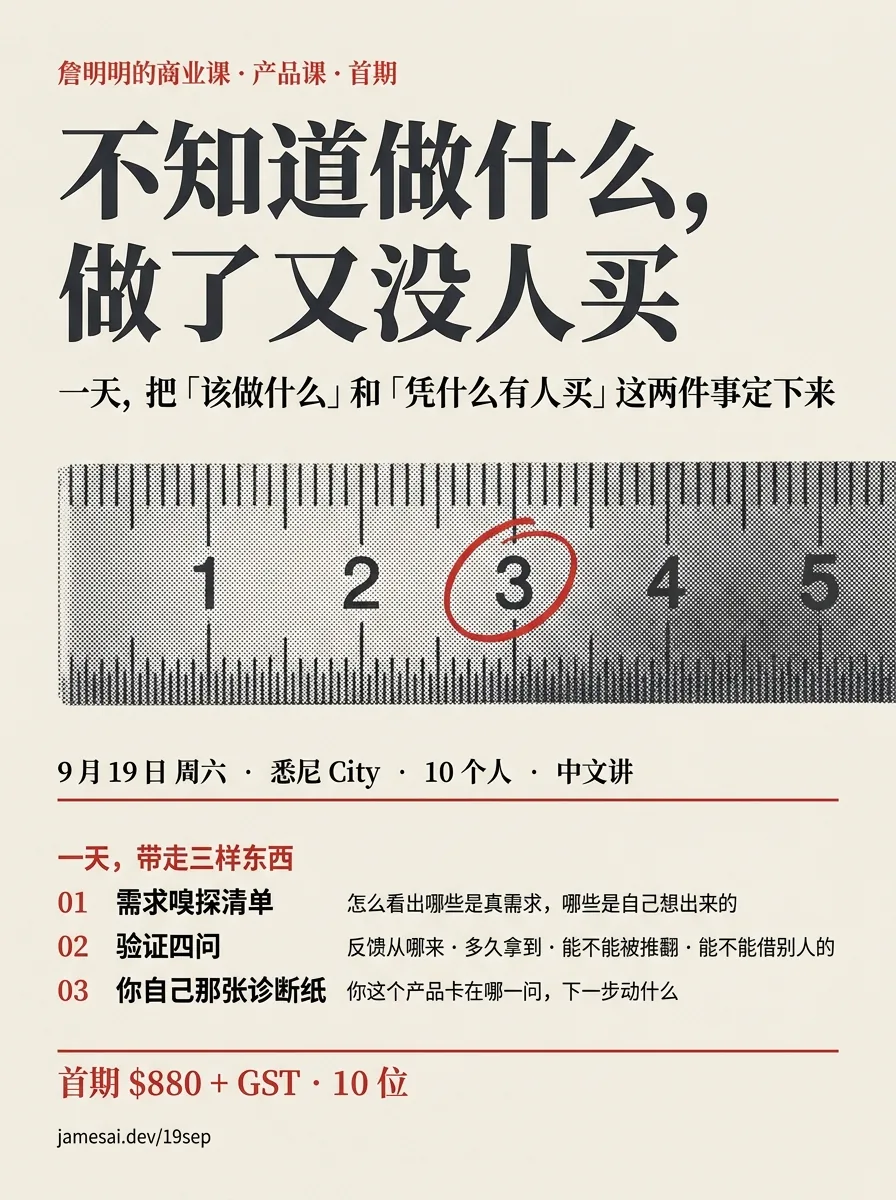
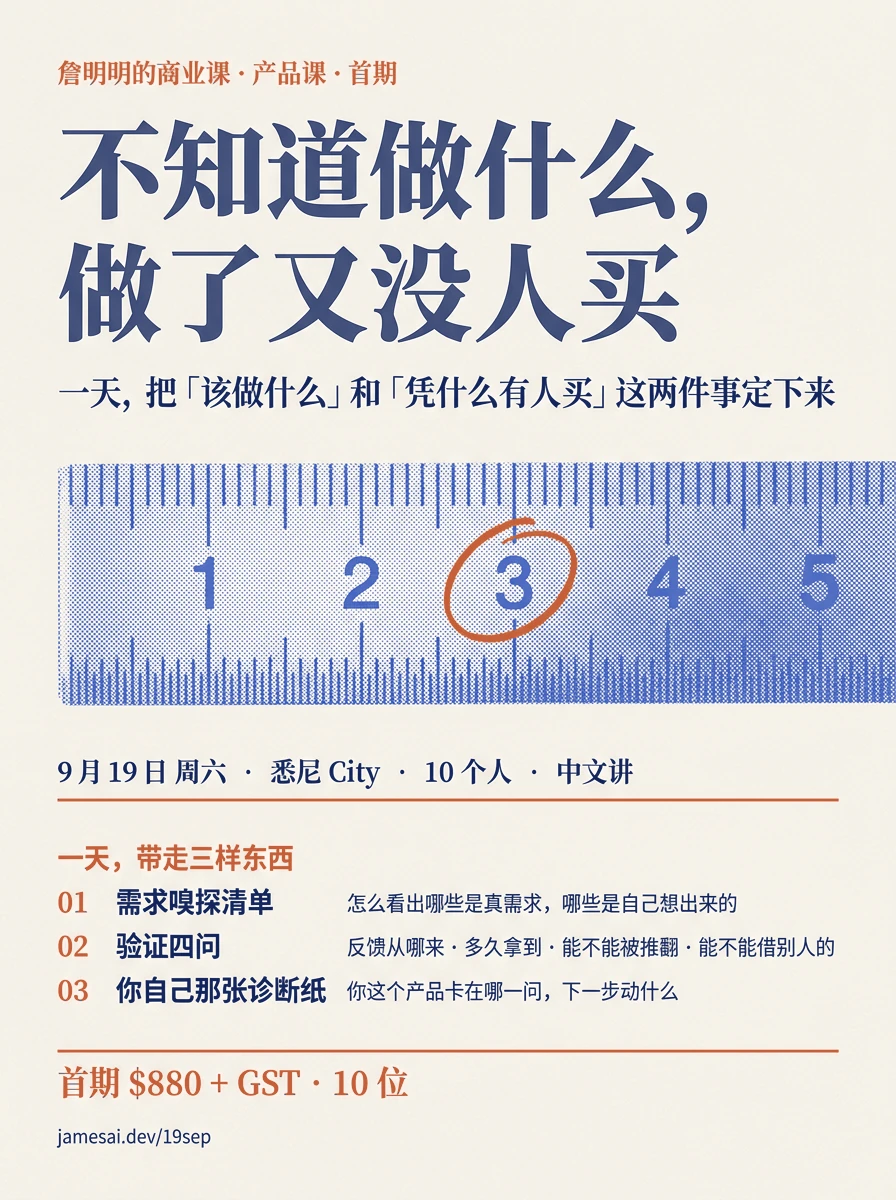
Re-ink the 19 Sep poster so the sheet and the page are one press
The page moved to the site's two inks last commit; the poster on it did not,
so the largest object on the page was still printed in the old homepage's
charcoal and seal red. It is now cobalt and terracotta on the same substrate,
and the page reads as one printed thing instead of a restyled page with
somebody else's poster pasted into it.

RE-INKED, NOT RE-GENERATED. The poster is a model render and it took ten
versions to get one worth using — the tenth is the first that says what the
class teaches. Its own recipe warns that any re-render has to be proof-read
character by character, because an earlier version printed the word
"microtype:" out of the prompt and into the artwork. Asking the model again to
change two hex values would pay that entire risk for an ink change. So every
pixel is solved for how much ink is on the paper and which of the two inks it
is, and the same coverage is laid down with the new ones. Nothing moves. Not
one Chinese character is re-rendered. tools/poster-reink.py.

TWO COBALTS, BECAUSE THE SITE USES TWO. Re-inking the whole sheet to #2148B8
was tried first and the small explanatory lines came out visibly lighter than
the near-black they replaced — a real cost on a poster whose job is to survive
as a thumbnail in a WeChat feed. The site does not set text in #2148B8 either:
that is the plate, and running text is #12255E. So the steel rule takes the
plate ink and every character takes the text ink. Where the rule sits was
[…]

diff --git a/19sep/index.html b/19sep/index.html
@@ -36,8 +36,21 @@
   window.__pressApply = function (choice) {
     var night = choice === 'night' || (choice === 'system' && m && m.matches);
     r.setAttribute('data-press', night ? 'night' : 'day');
+    /* Swapping the src rather than shipping both means only the stock in use
+       is ever fetched. The element does not exist yet on the first call — this
+       script runs in <head>, before the body — and that is fine: the markup
+       ships with the day sheet, and the first call after DOMContentLoaded
+       below corrects it. */
+    var plate = document.getElementById('poster');
+    if (plate) {
+      var want = plate.getAttribute(night ? 'data-night' : 'data-day');
+      if (plate.getAttribute('src') !== want) plate.setAttribute('src', want);
+    }
   };
   __pressApply(__pressSaved());
+  document.addEventListener('DOMContentLoaded', function () {
+    __pressApply(__pressSaved());
+  });
   if (m && m.addEventListener) {
     m.addEventListener('change', function () {
       if (__pressSaved() === 'system') __pressApply('system');
@@ -400,7 +413,11 @@ p:last-child { margin-bottom: 0; }
   display: block;
   width: 10.5rem;
   height: auto;
-  background: #fff;
+  /* The quiet zone stays light in BOTH stocks — a QR wants a pale ground
+     to scan, so this is the one plate that does not invert. Pure #fff
+     was a fourth colour on a page with two inks and a substrate; the
+     substrate itself is well inside what a scanner will read. */
+  background: #F5F1E8;
   padding: 0.6rem;
   border: 1px solid var(--rule-strong);
 }
@@ -441,11 +458,15 @@ footer a:hover { color: var(--accent-text); border-color: currentColor; }
     <span>10 席 · 中文讲</span>
   </div>
 
-  <a class="poster-link" href="poster.png"><picture>
-    <source srcset="poster.webp" type="image/webp">
-    <img class="poster" src="poster.png" width="896" height="1200" fetchpriority="high" decoding="async"
-       alt="詹明明的商业课 · 产品课 · 首期。不知道做什么，做了又没人买。一天，把「该做什么」和「凭什么有人买」这两件事定下来。9 月 19 日周六，悉尼 City，10 个人，中文讲。一天带走三样东西：需求嗅探清单、验证四问、你自己那张诊断纸。首期 $880 + GST，10 位。">
-  </picture></a>
+  <!-- Two stocks, one drawing. The night sheet is the SAME artwork re-inked
+       for dark paper (tools/poster-reink.py), not a second design — a bright
+       beige rectangle on a near-black page is the one thing that would still
+       look bolted on after the restyle. The download and the og:image stay the
+       day sheet: that is the one people share. -->
+  <a class="poster-link" href="poster.png?v=2"><img class="poster" id="poster"
+       src="poster.webp?v=2" data-day="poster.webp?v=2" data-night="poster-night.webp?v=2"
+       width="896" height="1200" fetchpriority="high" decoding="async"
+       alt="詹明明的商业课 · 产品课 · 首期。不知道做什么，做了又没人买。一天，把「该做什么」和「凭什么有人买」这两件事定下来。9 月 19 日周六，悉尼 City，10 个人，中文讲。一天带走三样东西：需求嗅探清单、验证四问、你自己那张诊断纸。首期 $880 + GST，10 位。"></a>
 
   <section>
     <h2>这是哪一门</h2>

diff --git a/tools/poster-reink.py b/tools/poster-reink.py
@@ -1,0 +1,133 @@
+#!/usr/bin/env python3
+"""Re-ink the 19 Sep poster into the site's two inks.
+
+    python3 tools/poster-reink.py <poster.png> [--night] [-o out.png]
+
+WHY RE-INK AND NOT RE-GENERATE
+The poster is a `gemini-3-pro-image-preview` render and it took ten versions to
+get one James approved — the tenth is the first that says what the class
+teaches. Its own recipe warns that a re-render has to be proof-read character
+by character, because an earlier version printed the word "microtype:" from the
+prompt into the artwork. Asking the model again to change two hex values is
+paying that whole risk for an ink change.
+
+So the sheet is re-inked instead. Every pixel is solved for how much ink is on
+the paper and which of the two inks it is, then the same coverage is laid down
+with the new inks. The layout does not move, the halftone does not move, and
+not one Chinese character is re-rendered.
+
+  paper    #F0ECE0 -> #F5F1E8   (the site's substrate)
+  charcoal #010000 -> #12255E in type, #2148B8 in the image band
+  red      #A03F36 -> #C65F38   (signal only)
+
+TWO COBALTS, BECAUSE THE SITE USES TWO
+The site does not set text in #2148B8. #2148B8 is the plate — the ink the
+halftone imagery is printed in — and running text is #12255E, a denser mix of
+the same ink. Re-inking the whole sheet to #2148B8 was tried first and the
+small explanatory lines came out visibly weaker than the near-black they
+replaced, which is a real cost on a poster whose job is to be read as a
+thumbnail in a WeChat feed. So the steel rule gets the plate ink and every
+character gets the text ink.
+
+WHERE THE IMAGE BAND IS, MEASURED
+Row ink-coverage was profiled across the sheet. The rule occupies rows
+463-703; the subtitle above it ends at 405 and the fact line below starts at
+760, so rows 450-715 contain the rule and nothing else. The band is stated in
+FRACTIONS of the sheet height, not pixels, so a re-render at another size
+still lands on it — but it is a measurement of THIS artwork and has to be
+re-profiled if the poster is ever regenerated.
+
+WHICH INK A PIXEL IS, IS DECIDED BY RESIDUAL, NOT BY HUE
+A pale tint of charcoal and a pale tint of red are both "warm-ish light" and
+the hue angle is unstable down there. The distance from the pixel to each
+ink's own paper-to-ink line is not. Same rule as tools/plate-night.py.
+
+THE PAPER FIBRE IS KEPT
+The sheet is not flat: its modal value is #F0ECE0 but it runs up to #FAF8F3.
+Solving against the modal value would read every fibre highlight as negative
+ink, clamp it to zero, and hand back a dead flat sheet. Anything brighter than
+the paper reference keeps its distance above it and is carried onto the new
+substrate.
+"""
+
+import argparse
+import pathlib
+import numpy as np
+from PIL import Image
+
+# Measured off the render, not copied from the prompt — the model printed the
+# dark plate at near-black rather than at the #30343A the prompt asked for.
+SRC_PAPER = np.array([0xF0, 0xEC, 0xE0], dtype=np.float64)
+SRC_DARK = np.array([0x01, 0x00, 0x00], dtype=np.float64)
+SRC_RED = np.array([0xA0, 0x3F, 0x36], dtype=np.float64)
+
+DAY = dict(paper=[0xF5, 0xF1, 0xE8], text=[0x12, 0x25, 0x5E],
+           plate=[0x21, 0x48, 0xB8], red=[0xC6, 0x5F, 0x38])
+NIGHT = dict(paper=[0x14, 0x16, 0x1C], text=[0xEC, 0xE8, 0xDF],
+             plate=[0x6E, 0x93, 0xE0], red=[0xE0, 0x78, 0x4B])
+
+# The steel-rule band, as a fraction of sheet height. See the note above.
+BAND = (450 / 1200.0, 715 / 1200.0)
+
+
+def coverage(px, ink):
+    """Ink coverage 0..1, and how well that coverage explains the pixel."""
+    d = ink - SRC_PAPER
+    a = np.clip(((px - SRC_PAPER) * d).sum(-1) / (d * d).sum(), 0.0, 1.0)
+    fit = SRC_PAPER + a[..., None] * d
+    return a, np.linalg.norm(px - fit, axis=-1)
+
+
+def reink(im, target):
+    px = np.asarray(im.convert("RGB"), dtype=np.float64)
+    a_d, r_d = coverage(px, SRC_DARK)
+    a_r, r_r = coverage(px, SRC_RED)
+
+    use_red = (r_r < r_d)[..., None]
+    a = np.where(use_red[..., 0], a_r, a_d)[..., None]
+
+    h = px.shape[0]
+    band = np.zeros(h, dtype=bool)
+    band[int(BAND[0] * h):int(BAND[1] * h)] = True
+    in_band = np.repeat(band[:, None], px.shape[1], axis=1)[..., None]
+
+    paper = np.array(target["paper"], dtype=np.float64)
+    dark = np.where(in_band,
+                    np.array(target["plate"], dtype=np.float64),
+                    np.array(target["text"], dtype=np.float64))
+    ink = np.where(use_red, np.array(target["red"], dtype=np.float64), dark)
+    out = paper + a * (ink - paper)
+
+    # Carry the fibre: whatever the sheet was ABOVE its paper reference is
+    # brightness the solve threw away, and on a dark stock it has to be
+    # subtracted rather than added, or the grain glows.
+    over = np.clip(px - SRC_PAPER, 0, None) * (a < 0.02)
+    sign = 1.0 if sum(target["paper"]) > 3 * 128 else -1.0
+    out = out + sign * over
+
+    return Image.fromarray(np.clip(out, 0, 255).astype(np.uint8))
+
+
+def main():
+    ap = argparse.ArgumentParser()
+    ap.add_argument("src")
+    ap.add_argument("--night", action="store_true")
+    ap.add_argument("-o", "--out")
+    a = ap.parse_args()
+
+    p = pathlib.Path(a.src)
+    im = reink(Image.open(p), NIGHT if a.night else DAY)
+    out = pathlib.Path(a.out) if a.out else p.with_name(
+        p.stem + ("-night" if a.night else "-press") + p.suffix)
+    if out.suffix.lower() in (".jpg", ".jpeg"):
+        im.save(out, quality=92)
+    elif out.suffix.lower() == ".webp":
+        im.save(out, "WEBP", quality=88, method=6)
+    else:
+        im.save(out)
+    print("%-30s -> %-34s %dx%d  %dKB"
+          % (p.name, out.name, im.width, im.height, out.stat().st_size // 1024))
+
+
+if __name__ == "__main__":
+    main()
